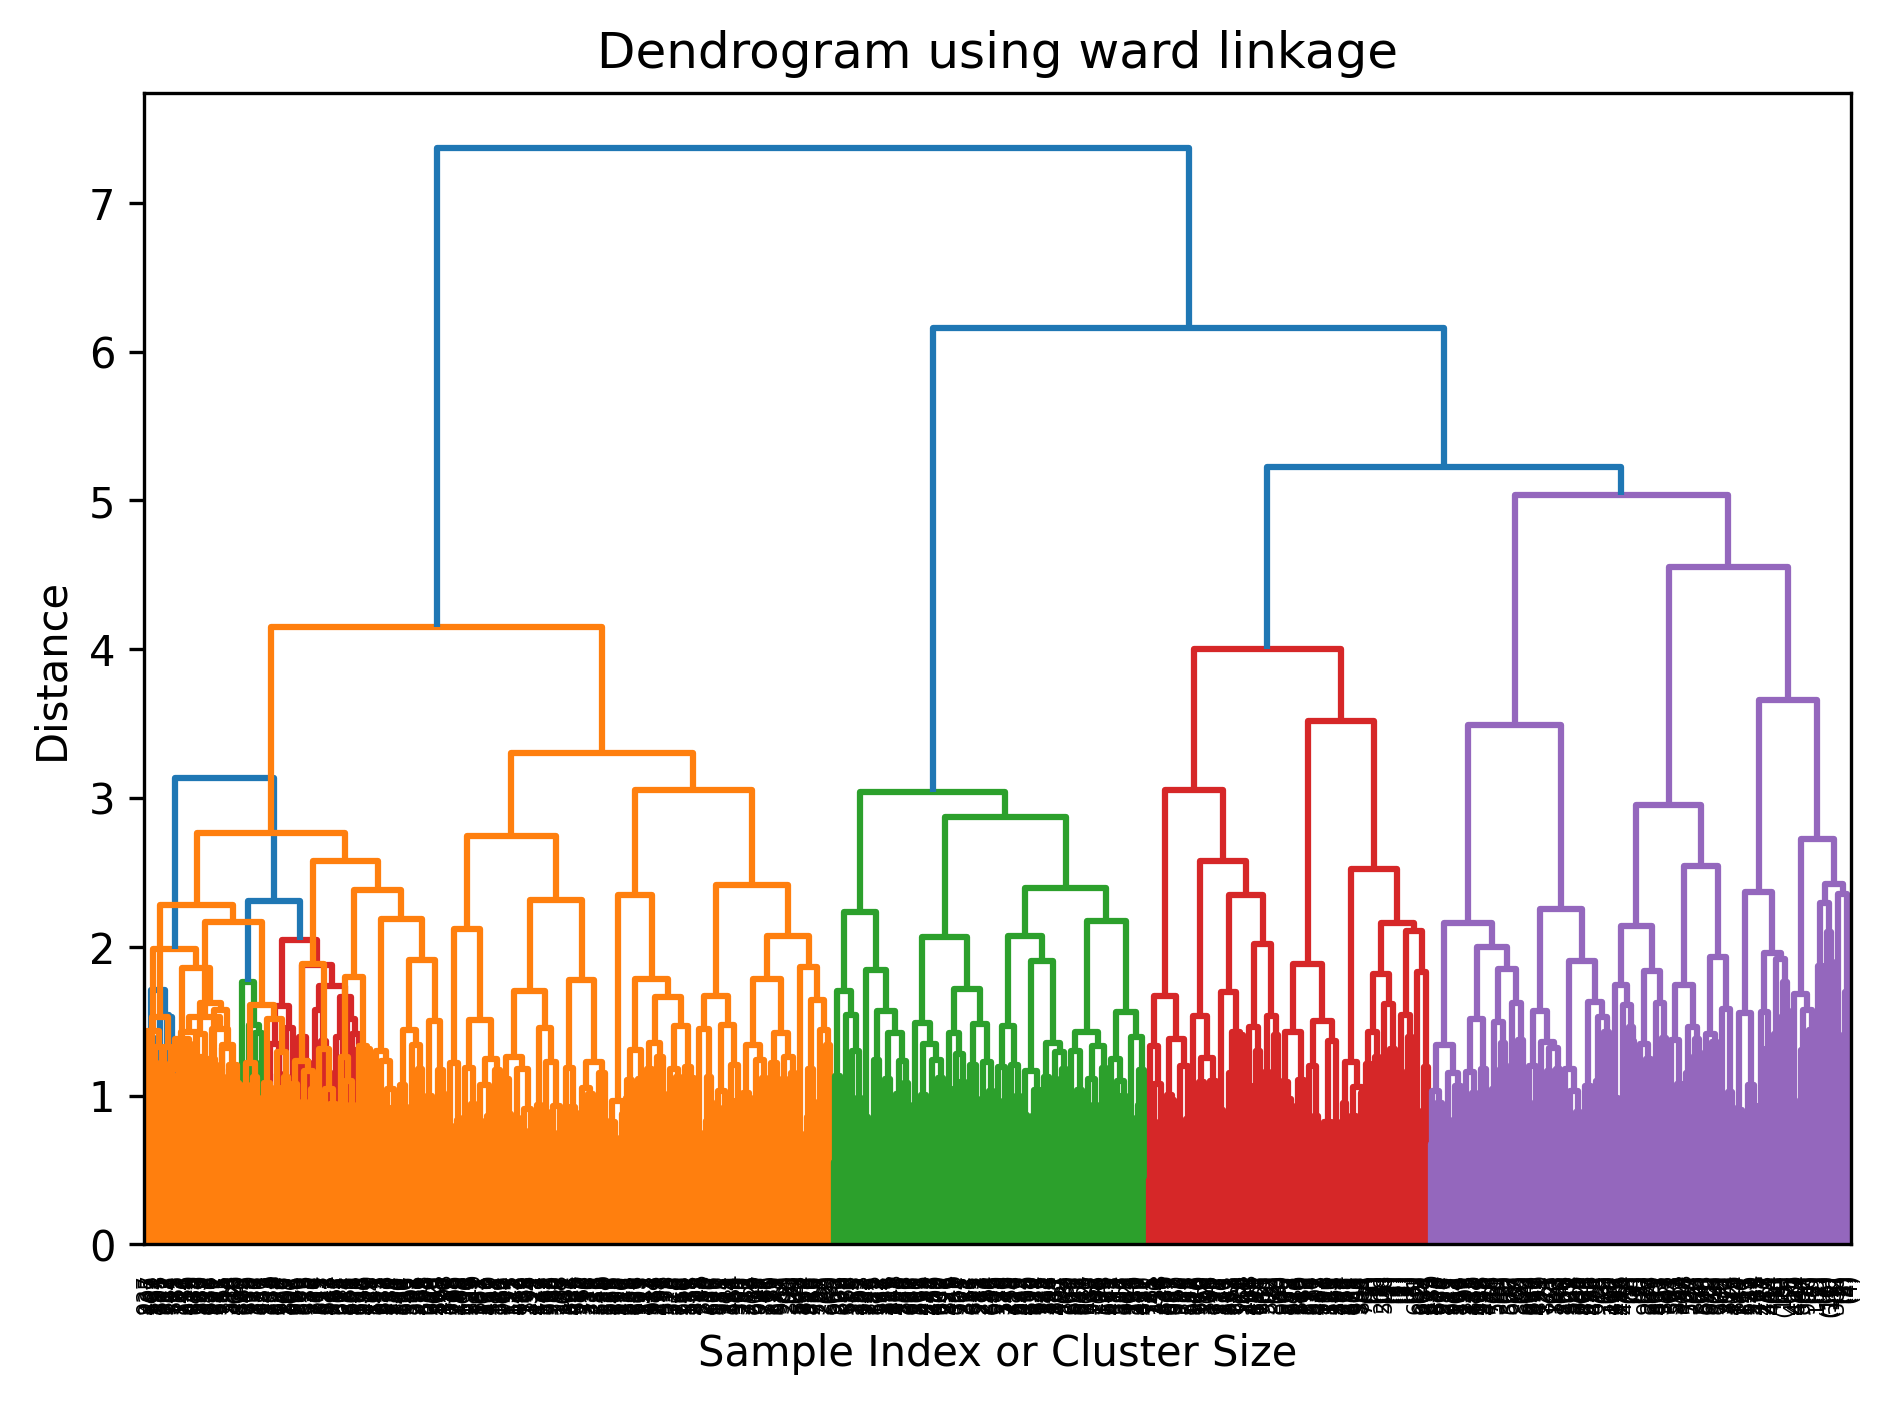
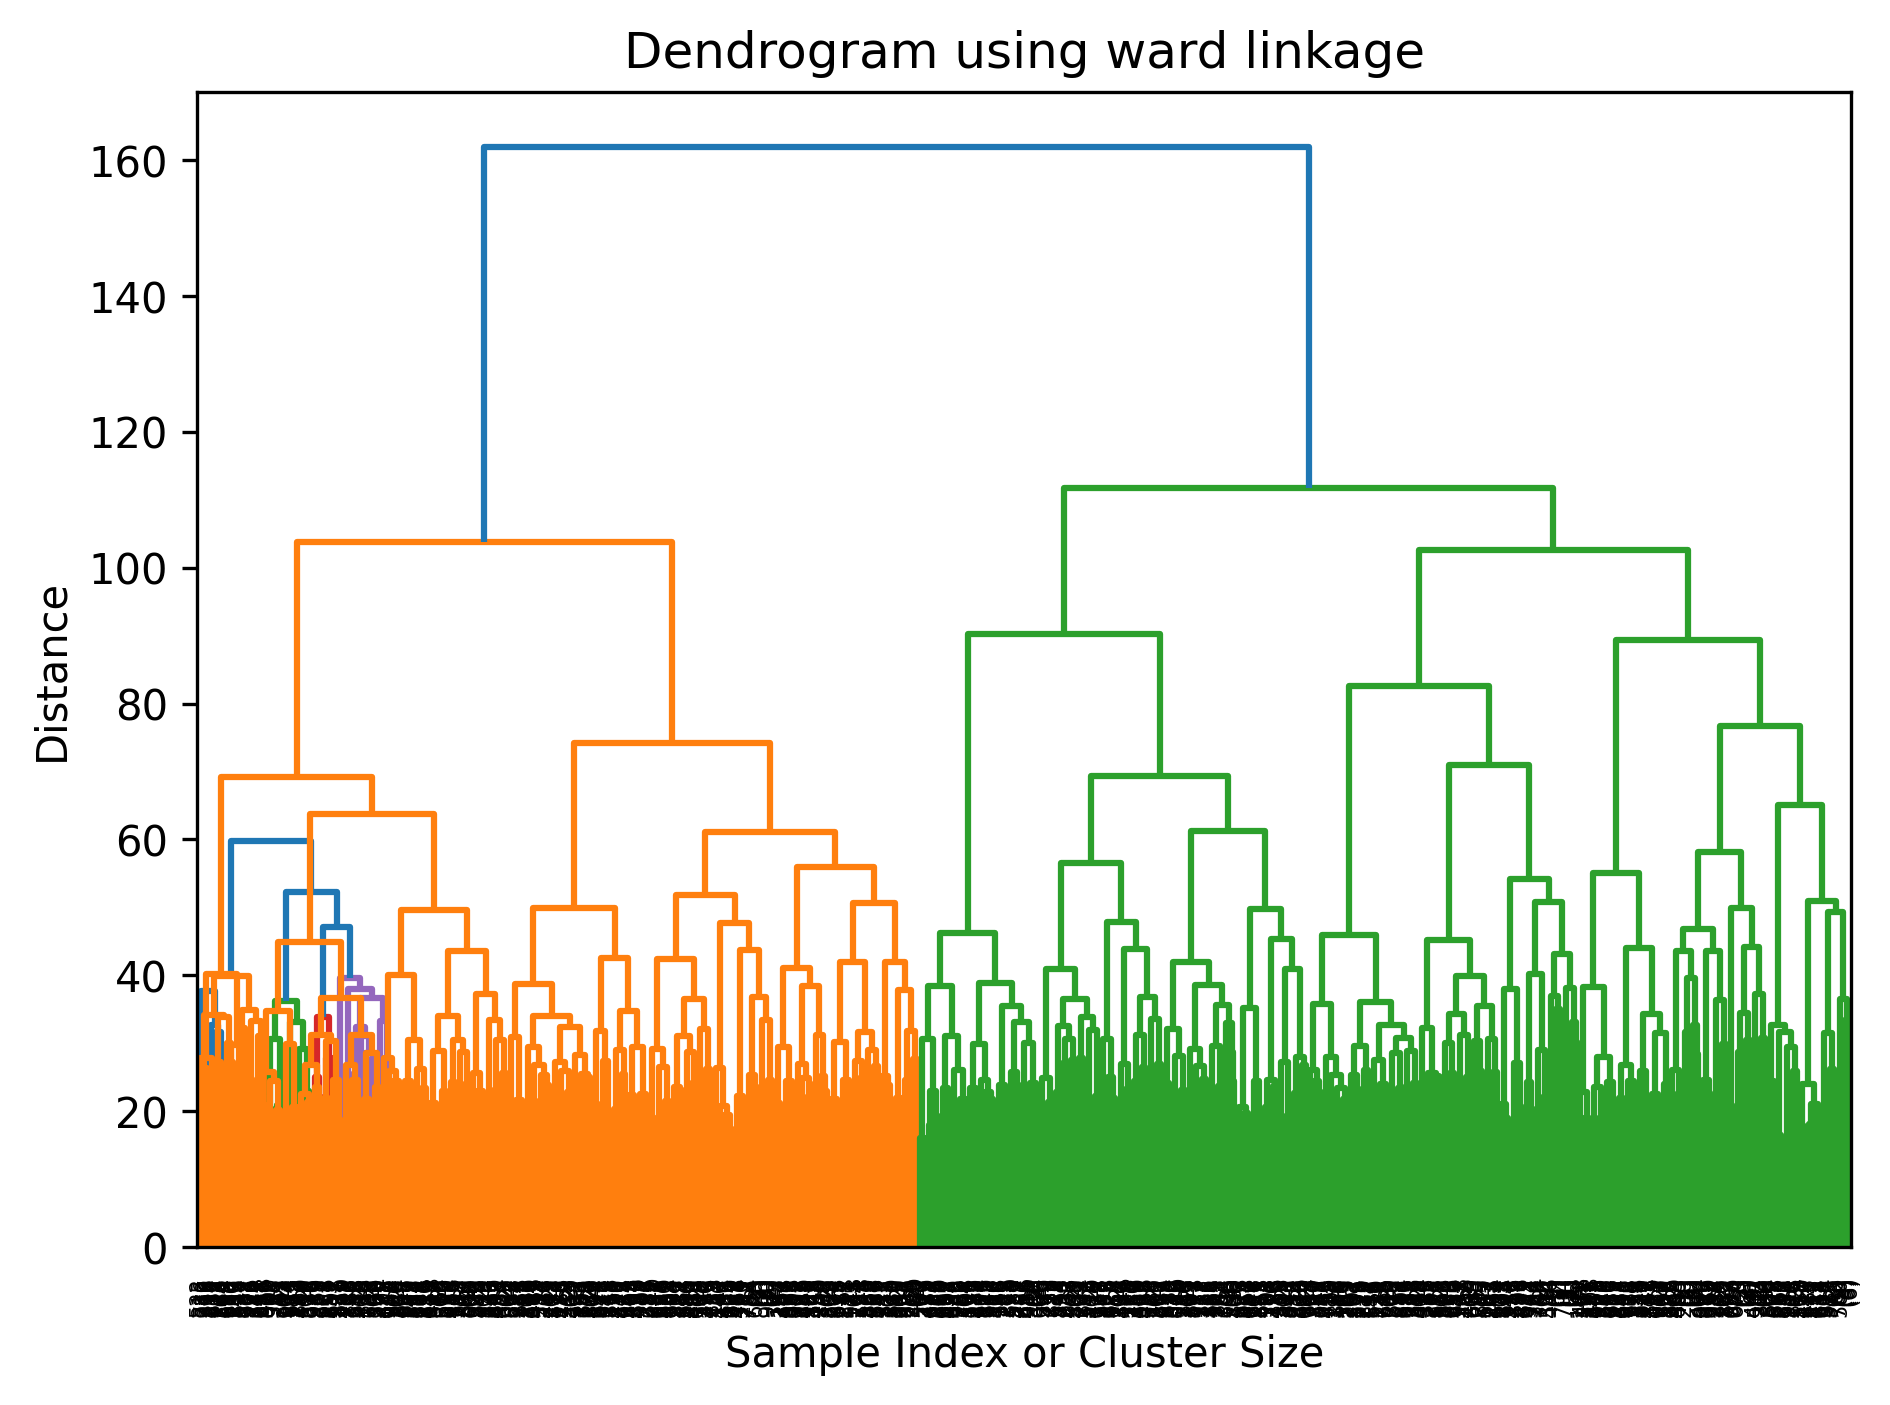
Second commit

diff --git a/clustering.py b/clustering.py
@@ -8,34 +8,40 @@ import numpy as np
 import matplotlib.pyplot as plt
 from sklearn.preprocessing import LabelEncoder, StandardScaler, MinMaxScaler
 from sklearn.pipeline import Pipeline
-def kmeans():
-    return
-
-
-def kmeans_pipeline(data, threshold_distance):
-
-    ids = list(data.keys())
-    embeddings = np.array(list(data.values()))
-
-    scaler = StandardScaler()
+def pipeline(data, scaler):
+    # Pipeline for the preprocessing of the dataset
     pca = PCA()
-    pca.fit(scaler.fit_transform(embeddings))
+    data_scaled = scaler.fit_transform(data)
+    pca.fit(data_scaled)
 
     variance = pca.explained_variance_ratio_
     cumulative_variance = np.cumsum(variance)
     threshold_variance = 0.85
     n_components = np.argmax(cumulative_variance >= threshold_variance) + 1
-    print(n_components)
-    pca_plot = PCA(n_components=n_components)
-    data_pca = pca_plot.fit_transform(embeddings)
 
+    pca_plot = PCA(n_components=n_components)
+    data_pca = pca_plot.fit_transform(data_scaled)
+    return data_pca
+
+
+
+def kmeans(data, threshold_distance):
+    #Peforming Kmeans on dataset
+    ids = list(data.keys())
+    embeddings = np.array(list(data.values()))
+
+    scaler = StandardScaler()
+
+    data_pca = pipeline(embeddings, scaler)
+
+    # Using the precalculated dedrogram calculate the clusters
     agglomerative_clustering = AgglomerativeClustering(n_clusters=None, distance_threshold=threshold_distance,
                                                        linkage='ward')
     clusters1 = agglomerative_clustering.fit_predict(data_pca)
-
+    # Calculating the centers
     unique_clusters = np.unique(clusters1)
     cluster_centers = np.array([data_pca[clusters1 == cluster].mean(axis=0) for cluster in unique_clusters])
-
+    # Init kmeans with the centers that has been calculated from agglomerative_clustering
     clustering = KMeans(n_clusters=len(unique_clusters), init=cluster_centers, n_init=1, random_state=42)
     clustering_labels = clustering.fit_predict(data_pca)
 
@@ -43,20 +49,14 @@ def kmeans_pipeline(data, threshold_distance):
 
 
 def dendrogram(data, name):
+    # Constructing a dendrogram and saving it for future use
     ids = list(data.keys())
     embeddings = np.array(list(data.values()))
 
     scaler = StandardScaler()
-    pca = PCA()
-    pca.fit(scaler.fit_transform(embeddings))
-    variance = pca.explained_variance_ratio_
-    cumulative_variance = np.cumsum(variance)
-    threshold_variance = 0.85
-    n_components = np.argmax(cumulative_variance >= threshold_variance) + 1
+    data_pca = pipeline(embeddings, scaler)
 
-    print(n_components)
-    pca_plot = PCA(n_components=n_components)
-    data_pca = pca_plot.fit_transform(embeddings)
+
     Z = linkage(data_pca, method="ward")
     scipy_dendrogram(Z, truncate_mode='level', p=10)  # Περικοπή για ευκολία προβολής
     plt.title(f"Dendrogram using ward linkage")

diff --git a/graph_construction.py b/graph_construction.py
@@ -12,32 +12,16 @@ from scipy.cluster.hierarchy import dendrogram, linkage, fcluster
 from sklearn.preprocessing import LabelEncoder, StandardScaler, MinMaxScaler
 import clustering as cl
 
-def pipeline(data, scaler):
-    pca = PCA()
-    data_scaled = scaler.fit_transform(data)
-    pca.fit(data_scaled)
-
-    variance = pca.explained_variance_ratio_
-    cumulative_variance = np.cumsum(variance)
-    threshold_variance = 0.85
-    n_components = np.argmax(cumulative_variance >= threshold_variance) + 1
-
-    pca_plot = PCA(n_components=n_components)
-    data_pca = pca_plot.fit_transform(data_scaled)
-    return data_pca
 
 
 
 def build_thershold_graph(corpus):
-    """
-    Building a
-    :param corpus:
-    :return:
-    """
+    # Building a graph where the edges are formed if two passages (nodes) have cosine score higher than a thershold
     G = nx.Graph()
     threshold = 0.2
     for id in corpus:
         G.add_node(id)
+    # Constructing the graph
     for (id1, emb1), (id2, emb2) in combinations(corpus.items(), 2):
         emb1 = emb1.reshape(1, -1)
         emb2 = emb2.reshape(1, -1)
@@ -57,6 +41,7 @@ def build_thershold_graph(corpus):
 
 
 def build_knn_graph(corpus):
+    # Building a graph where the edges are formed using the knn algorithm
     G = nx.Graph()
     k = 5
 
@@ -66,12 +51,12 @@ def build_knn_graph(corpus):
     embeddings = np.array(list(corpus.values()))
     # scaler = StandardScaler()
     scaler = MinMaxScaler()
-    data = pipeline(embeddings, scaler)
+    data = cl.pipeline(embeddings, scaler)
     nn = NearestNeighbors(n_neighbors=k + 1, metric="cosine")
     nn.fit(data)
     distances, indices = nn.kneighbors(data)
 
-
+    # Constructing the graph
     for i, neighbors in enumerate(indices):
         node_id = ids[i]
         for j, nearest in enumerate(neighbors):
@@ -91,6 +76,7 @@ def build_knn_graph(corpus):
 
 
 def build_mutual_knn_graph(corpus):
+    # Building a graph where the edges are formed using the mutual knn algorithm
     G = nx.Graph()
     k = 5
     for id in corpus:
@@ -100,11 +86,11 @@ def build_mutual_knn_graph(corpus):
     # scaler = StandardScaler()
     scaler = MinMaxScaler()
     embeddings = np.array(list(corpus.values()))
-    data = pipeline(embeddings, scaler)
+    data = cl.pipeline(embeddings, scaler)
     nn = NearestNeighbors(n_neighbors=k + 1, metric="cosine")
     nn.fit(data)
     distances, indices = nn.kneighbors(data)
-
+    # Constructing the graph
     d = {}
     for i, neighbors in enumerate(indices):
         node_id = ids[i]
@@ -122,17 +108,19 @@ def build_mutual_knn_graph(corpus):
 
 
 def build_clustering_graph(data, threshold_distance):
-
-    unique_clusters, clustering_labels, ids = cl.kmeans_pipeline(data, threshold_distance)
+    # Building multiples graphs using clustering
+    unique_clusters, clustering_labels, ids = cl.kmeans(data, threshold_distance)
+    print(unique_clusters)
 
     G = nx.Graph()
     for id in data:
         G.add_node(id)
+    # Constructing the graph
     for cluster_id in range(len(unique_clusters)):
         cluster_nodes = [ids[i] for i, label in enumerate(clustering_labels) if label == cluster_id]
 
         for i, node_a in enumerate(cluster_nodes):
-            for node_b in cluster_nodes[i + 1:]:  # avoid duplicate edges
+            for node_b in cluster_nodes[i + 1:]:
                 G.add_edge(node_a, node_b)
 
     plot_graph(G, "Kmeans")
@@ -168,10 +156,7 @@ def plot_graph(G, name):
 
 
 def plot_subgraph(G, nodes):
-    """
-    nodes: list of node names/ids you want to plot
-    Example: plot_subgraph(G, ['node1', 'node2', 'node3'])
-    """
+
     S = G.subgraph(nodes)
 
     # Sanitize edge weights

diff --git a/main.py b/main.py
@@ -1,17 +1,34 @@
 import experiments as ex
 import data_loading as dt
 import graph_construction as gc
-#ex.baseline_search([1], 3)
-#ex.run_all()
-#ex.baseline()
-#dt.load_sample("embedding_sample_15.pkl")
-ex.mutual_knn(dt.load_sample("embedding_sample_100.pkl"))
-ex.knn_Graph(dt.load_sample("embedding_sample_100.pkl"))
-#ex.cluster_graph(dt.load_sample("embedding_sample_100.pkl"), 2.2)
+
+# Baseling Search
+ex.baseline_search([1,2,100], 3)
+
+
+# mutual KNN graph
+#ex.mutual_knn(dt.load_sample("embedding_sample_100.pkl"))
+#ex.mutual_knn(dt.load_sample("embedding_sample_15.pkl"))
+#ex.mutual_knn(dt.load_sample("embedding_sample_1000.pkl"))
+
+# KNN graph
+#ex.knn_Graph(dt.load_sample("embedding_sample_15.pkl"))
+#ex.knn_Graph(dt.load_sample("embedding_sample_100.pkl"))
+#ex.knn_Graph(dt.load_sample("embedding_sample_1000.pkl"))
+
+
+
+# CLuster graph
+#ex.cluster_graph(dt.load_sample("embedding_sample_15.pkl"), 34)
+#ex.cluster_graph(dt.load_sample("embedding_sample_100.pkl"), 47)
+#ex.cluster_graph(dt.load_sample("embedding_sample_1000.pkl"), 105)
+
+# Threshold graph
+#ex.threshold_graph(dt.load_sample("embedding_sample_15.pkl"))
 #ex.threshold_graph(dt.load_sample("embedding_sample_100.pkl"))
-#ex.cluster_graph()
-# plt.tight_layout()
-# plt.show()
+#ex.threshold_graph(dt.load_sample("embedding_sample_1000.pkl"))
+
+# Preparing dataset
 #ex.prepare_all()
 #ex.prepare_samples()
-#ex.cluster_graph(dt.load_sample("embedding_sample_100.pkl"), 2.2)
+

diff --git a/experiments.py b/experiments.py
@@ -17,11 +17,7 @@ def prepare_all():
 
 
 def prepare_dataset():
-    """Loading the dataset bioasq and making three dictionaries
-       questions : {id: (embedding, relevant passages)}
-       answers : {id: (embedding, relevant passages)}
-       corpus : {id: embedding}
-    """
+   # Loading the dataset and calculating the embeddings and then save them
 
     # Loading data from the dataset bioasq
     bioasq, bioasq_corpus = dt.read_dataset_bioasq("Datasets/rag-mini-bioasq/")
@@ -40,6 +36,7 @@ def prepare_for_clustering(data, name):
 
 
 def prepare_samples():
+    # Preparing samples for other experiments
     questions, answers, corpus = dt.load_data()
 
     sample_size = 15
@@ -74,35 +71,36 @@ def baseline_search(query_ids, k):
        dcg_scores.append(dcg)
     print(f"Avg Recall@k score: {sum(recallk_scores)/len(recallk_scores)} | MRR score: {ev.MRR_score(rr_scores)} | Avg DCG@K: {sum(dcg_scores)/len(dcg_scores)}")
 def baseline(query_id, k):
+   # Given an list of ids using cosine similarity score find the top k most similar passages and then calcualting the metrics
 
+   # Loading data
    q, a, c = dt.load_data()
    query = q[query_id]
    query_emb = query[0].reshape(1, -1)
    query_correct_results = query[1]
    pq = PriorityQueue()
 
+   # For every passage calculating the cosine similarity score
    for document in c.keys():
        document_emb = c[document].reshape(1, -1)
        sim = cosine_similarity(query_emb, document_emb)
        pq.put((-float(sim), query_id, document))
    i = 0
    pred_results = []
+   # Taking from the priority queue the passages with the highest score
    while i < k:
        neg_sim, query_id, document = pq.get()
        #print(f"query: {query_id} | doc: {document} | sim: {-neg_sim:.2f}")
        pred_results.append(document)
        i+=1
 
-
+   # Evaluating the results
    recallk = ev.recallk_score(pred_results, query_correct_results, k)
    rr = ev.RR_score(pred_results, query_correct_results)
-   dcg = ev.DCGk_score(pred_results, query_correct_results)
+   dcg = ev.DCGk_score(pred_results, query_correct_results, k)
    return recallk, rr, dcg
 def threshold_graph(sampled_items):
-    """
-    Data loading -> make embeddings -> make graph ->
-    retrieval -> evaluation -> save results
-    """
+    # Building a threshold graph
     gc.build_thershold_graph(sampled_items)
 
     #G = dt.load_graph()
@@ -111,15 +109,17 @@ def threshold_graph(sampled_items):
     return
 
 def knn_Graph(sampled_items):
+    # Building a graph using knn
     gc.build_knn_graph(sampled_items)
 
     return
 
 
 def mutual_knn(sampled_items):
+    # Building a graph using mutual knn
     gc.build_mutual_knn_graph(sampled_items)
     return
 
 def cluster_graph(sampled_items, threshold_distance):
-
+    # Building a graph using clustering
     gc.build_clustering_graph(sampled_items, threshold_distance)

diff --git a/evaluation.py b/evaluation.py
@@ -1,6 +1,7 @@
 from sklearn.metrics import ndcg_score
 import numpy as np
 def recallk_score(predictions, correct_results, k):
+    #Fucntion calculating recall@k score
     if len(correct_results) == 0:
         return 0.0
     correct_guess = 0
@@ -11,6 +12,7 @@ def recallk_score(predictions, correct_results, k):
     return correct_guess/k
 
 def RR_score(predictions, correct_results):
+    # Fucntion calculating the rank score
     for indx, answer in enumerate(correct_results):
         if answer in predictions:
             return 1/(indx + 1)
@@ -19,17 +21,19 @@ def RR_score(predictions, correct_results):
 
 
 def MRR_score(rr_scores):
+    # Fucntion calculating the MRR score using RR score
     return sum(rr_scores)/len(rr_scores)
 
 
 def DCGk_score(predictions, correct_results, k):
+    # Fucntion calculating the DCGk score
     gt_scores = {id: len(correct_results) - i for i, id in enumerate(correct_results)}
-    # → {"id1": 5, "id6": 4, "id2": 3, "id10": 2, "id3": 1}
+
 
     true_relevance = np.array([[gt_scores.get(id, 0) for id in predictions]])
-    # → [[1, 5, 0, 3]]
+
 
     predicted_scores = np.array([[len(predictions) - i for i in range(len(predictions))]])
-    # → [[4, 3, 2, 1]]
+
     return ndcg_score(true_relevance, predicted_scores, k=k)
 